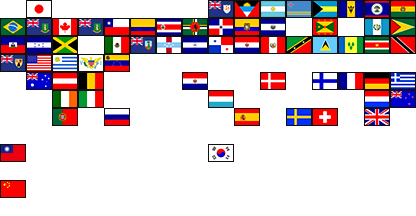
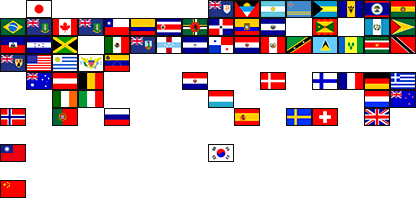
added shy guy portrait/norway flag

Changed region(s): [[0.0, 0.5, 0.0625, 0.5833]]

diff --git a/src/gfx/texture.cpp b/src/gfx/texture.cpp
@@ -20,7 +20,7 @@ void texture::load_ghost_textures()
 	driver[CHAR_MII_FEMALE]   = texture::add_texture("res/tex/Driver/mif.png", "mii_female");
 	driver[CHAR_PEACH]        = texture::add_texture("res/tex/Driver/pc.png", "peach");
 	driver[CHAR_ROSALINA]     = texture::add_texture("res/tex/Driver/rs.png", "rosalina");
-	driver[CHAR_SHY_GUY]      = texture::add_texture("res/tex/Driver/mim.png", "shy_guy");
+	driver[CHAR_SHY_GUY]      = texture::add_texture("res/tex/Driver/sh.png", "shy_guy");
 	driver[CHAR_TOAD]         = texture::add_texture("res/tex/Driver/td.png", "toad");
 	driver[CHAR_WARIO]        = texture::add_texture("res/tex/Driver/wr.png", "wario");
 	driver[CHAR_WIGGLER]      = texture::add_texture("res/tex/Driver/wig.png", "wiggler");
